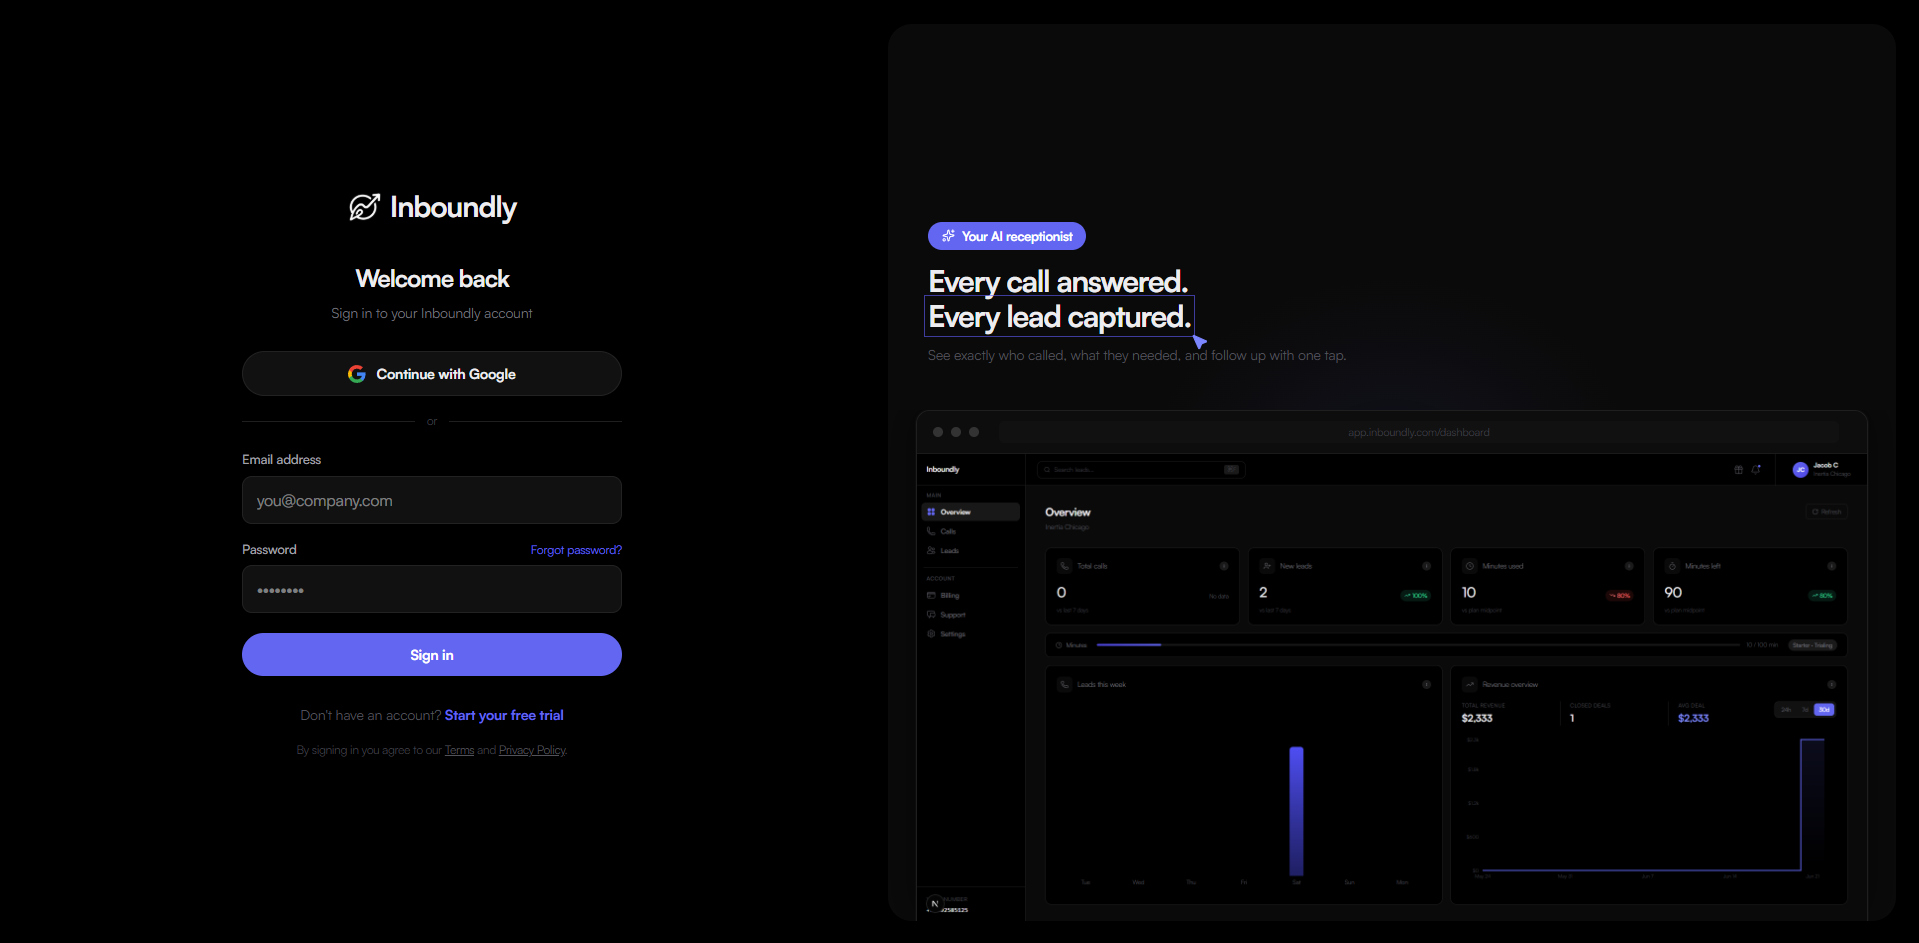
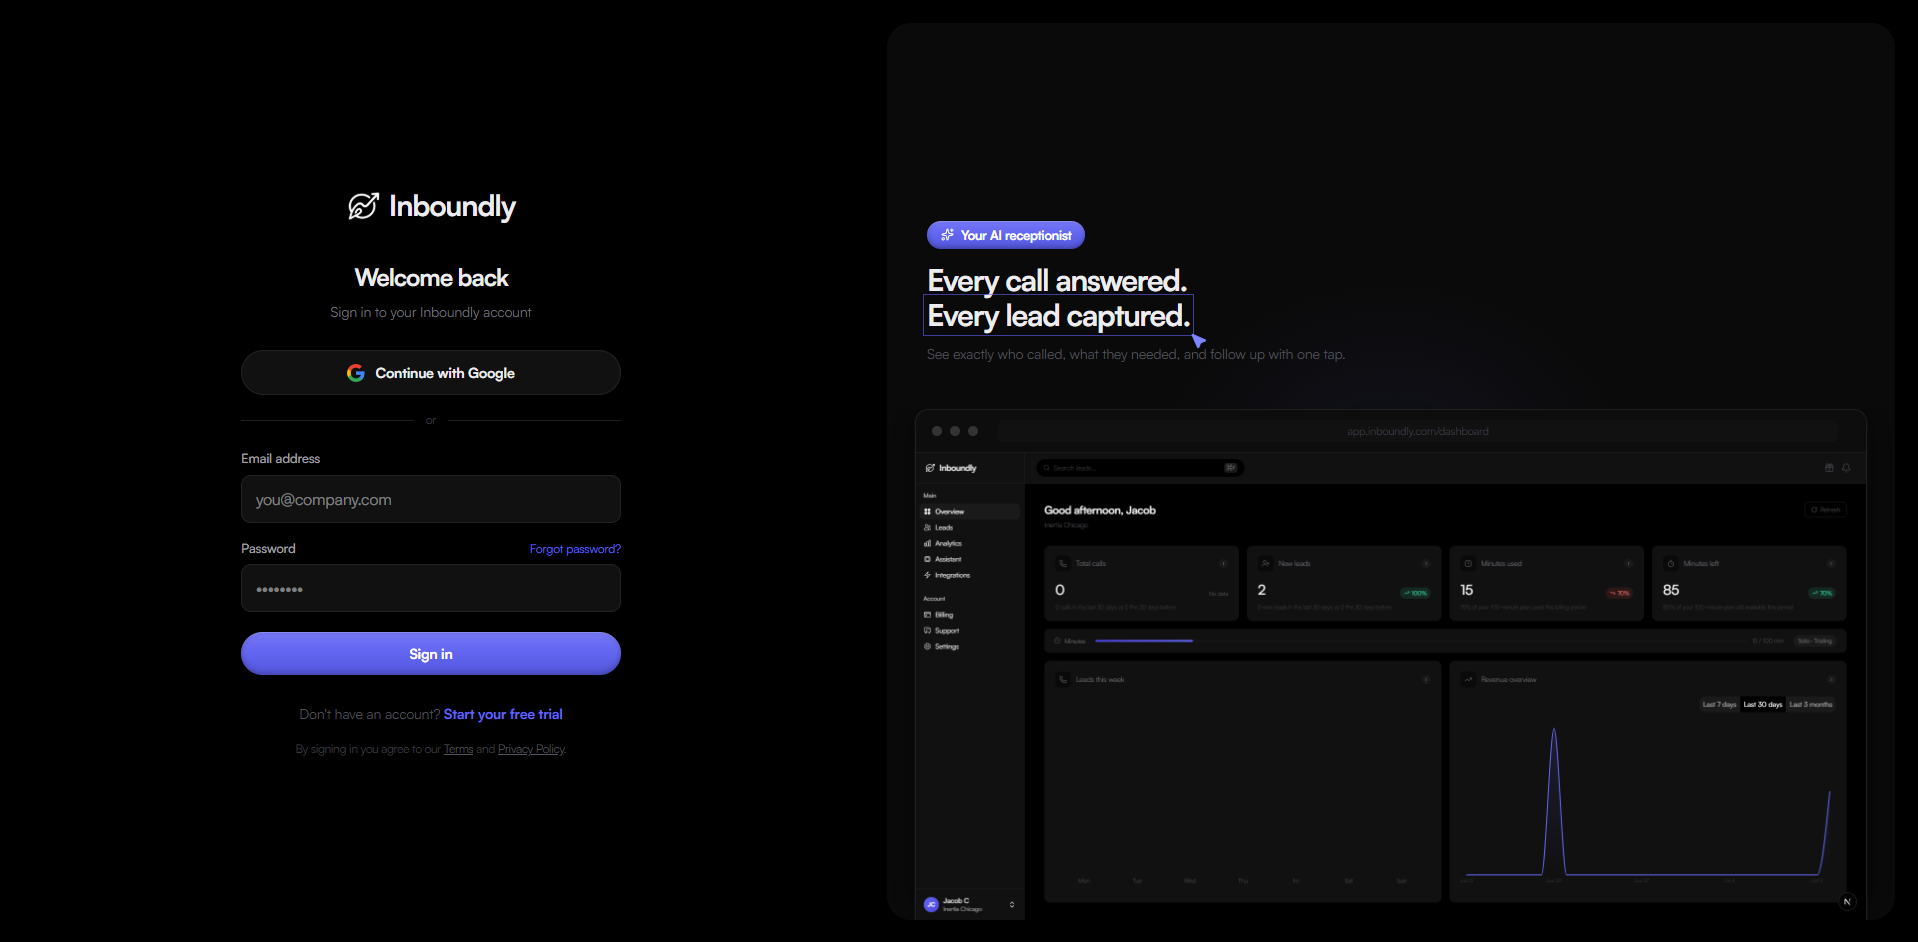
Update work thumbnails, reorder Inboundly, and fix hero ripple re-trigger
New Inboundly and Aether hero screenshots, Inboundly moved ahead of Aether
in both the homepage carousel and /work order, Trippie's second thumbnail
accent changed to dark blue, and the "speed" ripple in the hero now
re-plays on every thumbnail change instead of skipping when two
consecutive slides share the same accent color.

diff --git a/app/page.tsx b/app/page.tsx
@@ -3989,9 +3989,9 @@ function WaitUnderline({ children }: { children: React.ReactNode }) {
 // Per-character ripple: each time `color` changes, every glyph cycles
 // through a couple of randomized highlight states (dim -> pill flash ->
 // settled) with a small stagger left-to-right, rather than a flat crossfade.
-function GradientWord({ children, color = "#0a84ff" }: { children: string; color?: string }) {
+function GradientWord({ children, color = "#0a84ff", trigger }: { children: string; color?: string; trigger?: number }) {
   const chars = children.split("");
-  const prevColor = useRef(color);
+  const isFirstRun = useRef(true);
   const [cycleId, setCycleId] = useState(0);
   const [displayColor, setDisplayColor] = useState(color);
   const timersRef = useRef<ReturnType<typeof setTimeout>[]>([]);
@@ -4001,9 +4001,12 @@ function GradientWord({ children, color = "#0a84ff" }: { children: string; color
   // color-change effect below, avoiding a hydration mismatch.
   const variantsRef = useRef<("fill" | "outline" | "ghost")[]>(chars.map(() => "fill"));
 
+  // Re-plays the ripple whenever `trigger` changes (falls back to `color`
+  // if no trigger is passed) — driven by an always-incrementing value
+  // rather than color equality, so it still fires when two consecutive
+  // slides happen to share the same accent color.
   useEffect(() => {
-    if (prevColor.current === color) return;
-    prevColor.current = color;
+    if (isFirstRun.current) { isFirstRun.current = false; return; }
     timersRef.current.forEach(clearTimeout);
     timersRef.current = [];
     setCycleId((n) => n + 1);
@@ -4014,7 +4017,7 @@ function GradientWord({ children, color = "#0a84ff" }: { children: string; color
     const t = setTimeout(() => setDisplayColor(color), 260);
     timersRef.current.push(t);
   // eslint-disable-next-line react-hooks/exhaustive-deps
-  }, [color]);
+  }, [trigger ?? color]);
 
   return (
     <span className="inline-flex" aria-label={children}>
@@ -4058,7 +4061,7 @@ const HL = ({ children }: { children: React.ReactNode }) => (
   </span>
 );
 
-function VercelHero({ accentColor }: { accentColor: string }) {
+function VercelHero({ accentColor, accentTrigger }: { accentColor: string; accentTrigger?: number }) {
   const ref = useRef<HTMLDivElement>(null);
   const [visible, setVisible] = useState(false);
 
@@ -4094,7 +4097,7 @@ function VercelHero({ accentColor }: { accentColor: string }) {
             style={{ ...fade(120), color: "#1a1a1a", fontSize: "clamp(2.6rem, 6vw, 4.2rem)" }}
           >
             Design that moves at your{" "}
-            <GradientWord color={accentColor}>speed</GradientWord>
+            <GradientWord color={accentColor} trigger={accentTrigger}>speed</GradientWord>
           </h1>
 
           <div className="hidden sm:flex flex-col gap-5 max-w-md absolute inset-y-0 right-0 justify-center">
@@ -4180,6 +4183,8 @@ function CalEmbed() {
 }
 
 const WORK_ITEMS = [
+  { src: "/work/inboundly-1.png", title: "Inboundly", category: "Web app", accent: "#6a6dff" },
+  { src: "/work/inboundly-2.png", title: "Inboundly", category: "Product design", accent: "#6f72ff" },
   { src: "/work/aether-1.png", title: "Aether Theme", category: "Shopify theme", accent: "#39637e" },
   { src: "/work/aether-2.png", title: "Aether Theme", category: "Cart design", accent: "#5b7496" },
   { src: "/work/ellora-la/1.png", title: "Ellora La", category: "Shopify storefront", accent: "#cb591b" },
@@ -4191,10 +4196,8 @@ const WORK_ITEMS = [
   { src: "/work/subtle-goods/1.png", title: "Subtle Goods", category: "Shopify storefront", accent: "#3a627c" },
   { src: "/work/subtle-goods/2.png", title: "Subtle Goods", category: "Coming soon page", accent: "#4a5a2c" },
   { src: "/work/trippie-1.png", title: "Trippie Redd", category: "Merch store", accent: "#9c0000" },
-  { src: "/work/trippie-2.png", title: "Trippie Redd", category: "Music page", accent: "#1fbdf2" },
+  { src: "/work/trippie-2.png", title: "Trippie Redd", category: "Music page", accent: "#0d1b3e" },
   { src: "/work/trippie-3.png", title: "Trippie Redd", category: "Product page", accent: "#a50000" },
-  { src: "/work/inboundly-1.png", title: "Inboundly", category: "Web app", accent: "#6a6dff" },
-  { src: "/work/inboundly-2.png", title: "Inboundly", category: "Product design", accent: "#6f72ff" },
   { src: "/work/ellora-la/2.png", title: "Ellora La", category: "Collection page", accent: "#6f283c" },
   { src: "/work/ellora-la/3.png", title: "Ellora La", category: "Product page", accent: "#5f696f" },
 ];
@@ -4274,11 +4277,13 @@ function WorkThumbnails({ onActiveAccent }: { onActiveAccent?: (color: string) =
   const activeAccent = WORK_ITEMS[((index - 1) % total + total) % total].accent;
 
   // Report the active slide's accent color upward so the hero can tint
-  // itself to match.
+  // itself to match. Keyed on `index` (not the derived color) so the hero's
+  // ripple re-plays on every slide change, even when two consecutive slides
+  // happen to share the same accent.
   useEffect(() => {
     onActiveAccent?.(activeAccent);
   // eslint-disable-next-line react-hooks/exhaustive-deps
-  }, [activeAccent]);
+  }, [index]);
 
   useEffect(() => {
     const measure = () => {
@@ -4730,16 +4735,17 @@ function ClientCarousel() {
 function VisualLayout() {
   const [dashboardModalOpen, setDashboardModalOpen] = useState(false);
   const [accentColor, setAccentColor] = useState(WORK_ITEMS[0].accent);
+  const [accentTrigger, setAccentTrigger] = useState(0);
   return (
     <>
     <DashboardModal open={dashboardModalOpen} onClose={() => setDashboardModalOpen(false)} />
     <main className="page-container mx-3 sm:mx-auto w-auto sm:w-full max-w-[88rem] flex flex-col">
 
-      <VercelHero accentColor={accentColor} />
+      <VercelHero accentColor={accentColor} accentTrigger={accentTrigger} />
 
       <div className="py-10 sm:py-6" />
 
-      <WorkThumbnails onActiveAccent={setAccentColor} />
+      <WorkThumbnails onActiveAccent={(c) => { setAccentColor(c); setAccentTrigger((n) => n + 1); }} />
 
       <div className="py-7 sm:py-12" />
 